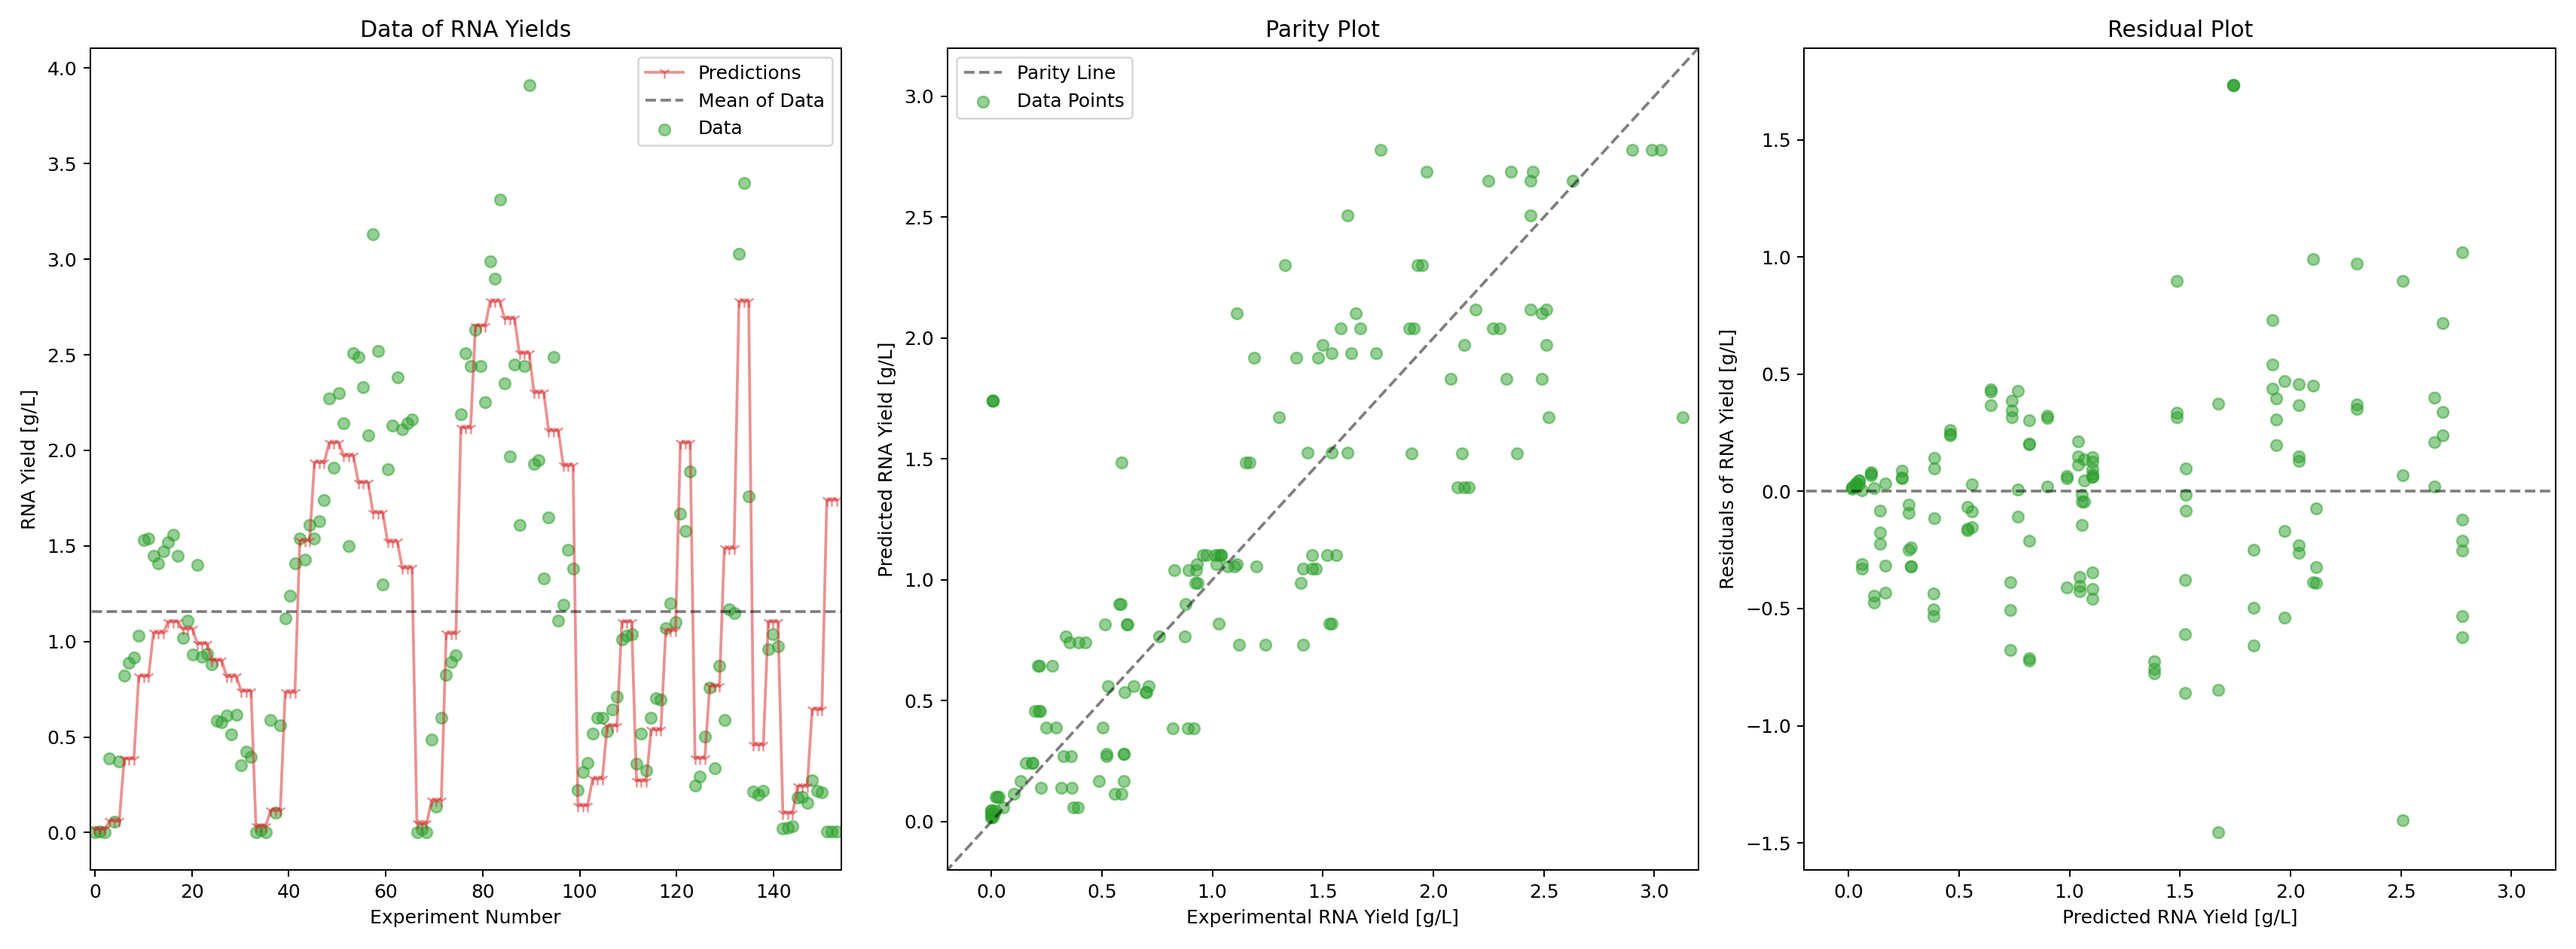
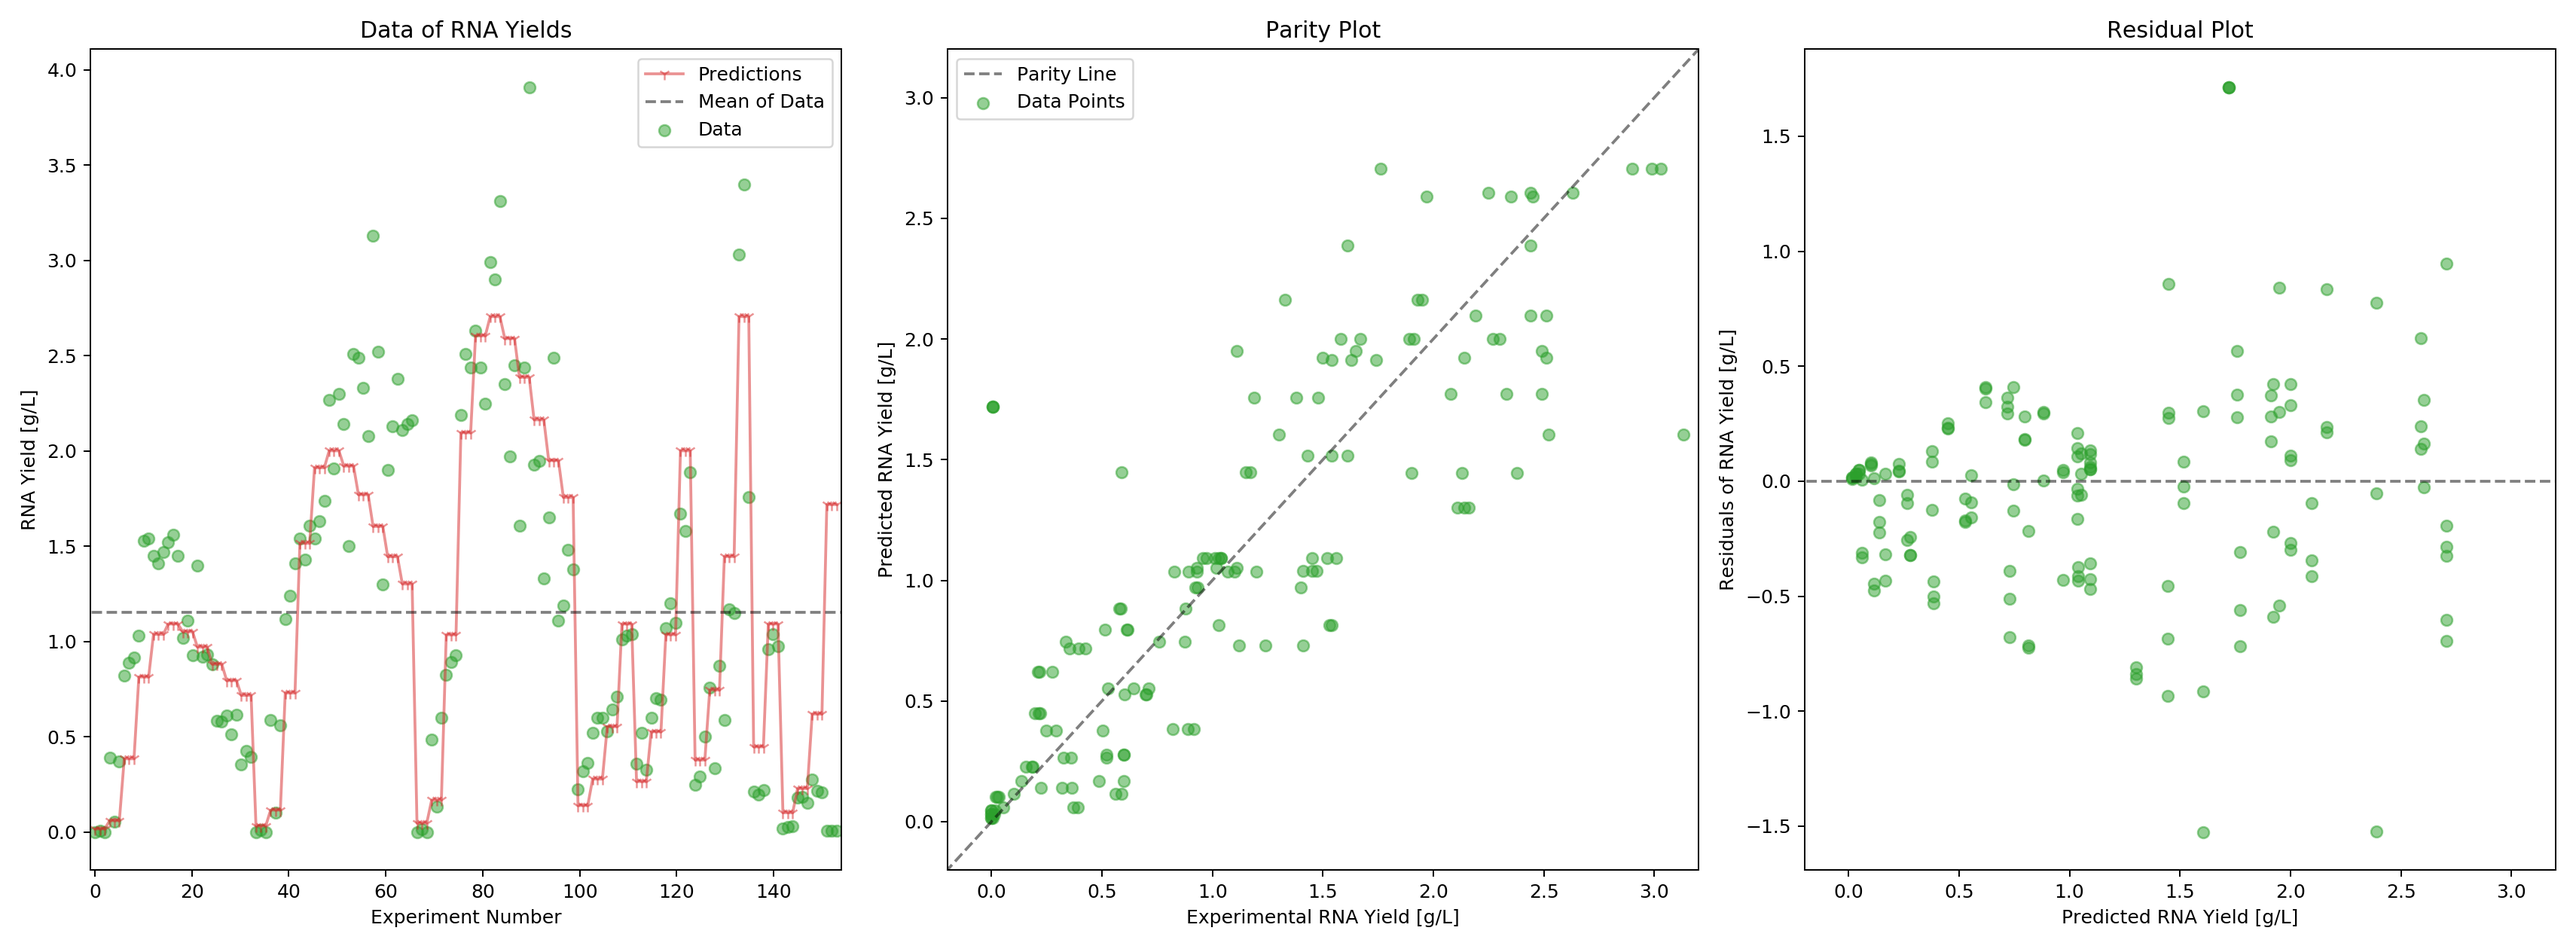
checkpoint 1 for model update with data labelled 25 Nov 2022

diff --git a/data_functions.py b/data_functions.py
@@ -26,7 +26,12 @@ def plot_experimental_data(ax, data, stdev):
 
 def get_experimental_data():
     ## Extract the data from specific columns in a certain sheet in a given Excel file as dataframe
-    data_DoE = pd.read_excel('Experimental_Data.xlsx', 'ModelData')
+    if True:
+        data_DoE = pd.read_excel('Experimental_Data.xlsx', 'ModelData')
+        n_repetitions = 3
+    else:
+        data_DoE = pd.read_excel('2022_11_25_rsm_doe_data.xlsx', 'ModelData')
+        n_repetitions = 2
     dataFrame_DoE = pd.DataFrame(data_DoE, columns = ['t [hr]', 'Mg2+ [M]', 'NTP [M]', 'Spermidine [M]',                                                   'T7RNAP ratio', 'template ratio', 'RNA [g/L]'])
     # Last column of dataframe is RNA yield, while all the other columns are 'input'
     indVar_DoE = dataFrame_DoE.values
@@ -35,17 +40,17 @@ def get_experimental_data():
 
     ## Each data sample appears three times, so take the average, st dev, 
     ## mean absolute error and mean square error of data set
-    C_RNA_new = np.zeros(int(len(C_RNA_exp2)/3))
-    X_new = np.zeros((int(len(X2)/3), len(X2[0])))
-    C_RNA_stdev = np.zeros(int(len(C_RNA_exp2)/3))
+    C_RNA_new = np.zeros(int(len(C_RNA_exp2)/n_repetitions))
+    X_new = np.zeros((int(len(X2)/n_repetitions), len(X2[0])))
+    C_RNA_stdev = np.zeros(int(len(C_RNA_exp2)/n_repetitions))
     MAE_exp = []
     MSE_exp = []
     for i in range(len(C_RNA_exp2)):
-        if i%3 == 0:
-            C_RNA_new[int(i/3)] = np.average(C_RNA_exp2[i:i+3])
-            X_new[int(i/3)] = X2[i]
-            C_RNA_stdev[int(i/3)] = np.std(C_RNA_exp2[i:i+3])
+        if i%n_repetitions == 0:
+            C_RNA_new[int(i/n_repetitions)] = np.average(C_RNA_exp2[i:i+n_repetitions])
+            X_new[int(i/n_repetitions)] = X2[i]
+            C_RNA_stdev[int(i/n_repetitions)] = np.std(C_RNA_exp2[i:i+n_repetitions])
         
-            MAE_exp.append(np.sum(abs(C_RNA_exp2[i:i+3]-np.average(C_RNA_exp2[i:i+3]))/3))
-            MSE_exp.append(np.sum((C_RNA_exp2[i:i+3]-np.average(C_RNA_exp2[i:i+3]))**2/3))
+            MAE_exp.append(np.sum(abs(C_RNA_exp2[i:i+n_repetitions]-np.average(C_RNA_exp2[i:i+n_repetitions]))/n_repetitions))
+            MSE_exp.append(np.sum((C_RNA_exp2[i:i+n_repetitions]-np.average(C_RNA_exp2[i:i+n_repetitions]))**2/n_repetitions))
     return X_new, C_RNA_new, C_RNA_stdev, MAE_exp, MSE_exp

diff --git a/anova.py b/anova.py
@@ -41,8 +41,19 @@ def cross_term(data, predictions, std_error=1):
 
 
 if __name__ == '__main__':
+    if True:
+        data_set_file = "Experimental_Data.xlsx"
+        # mp = [4.34, 5.55e+05, 1.94e+05, 1.20e+06, 0, 0, 0, 0, 0]  # taken from "3D_deterministic_DS.py"
+        mp = [2.61785814e+00, 3.34773771e+05, 1.17179087e+05, 1.20226431e+06,
+              7.53834439e-07, 5.59613926e-01, 1.00000000e-10, 1.00000000e-10,
+              1.00000000e-10]
+    else:
+        data_set_file = "2022_11_25_rsm_doe_data.xlsx"
+        mp = [2.61785814e+00, 3.34773771e+05, 1.17179087e+05, 1.20226431e+06,
+              7.53834439e-07, 5.59613926e-01, 1.00000000e-10, 1.00000000e-10,
+              1.00000000e-10]
     exp_data = pd.read_excel(
-        "Experimental_Data.xlsx",
+        data_set_file,
         sheet_name="ModelData",
         header=0,
     )
@@ -54,7 +65,6 @@ if __name__ == '__main__':
 
     X = exp_data.loc[:, "t [hr]":"T7RNAP ratio"]
     X_numpy = X.to_numpy()
-    mp = [4.34, 5.55e+05, 1.94e+05, 1.20e+06, 0, 0, 0, 0, 0]    # taken from "3D_deterministic_DS.py"
 
     predictions = datafitting_transcription_experimental(
         X_numpy,

diff --git a/odes_and_curve_fitting_functions.py b/odes_and_curve_fitting_functions.py
@@ -249,11 +249,11 @@ def datafitting_transcription_experimental(X, k_app, K1, K2, k_ac, k_ba, k_Mg, K
             print("Warning: Unstable solution for the following initial concentrations: " + str(tot_conc0))
             C_array[j] = 1e4
     # Return N-dimensional RNA yield corresponding to X    
-    # return C_array
-    full_array = np.array([
-        C_array,
-    ])
-    return full_array
+    return C_array
+    # full_array = np.array([
+    #     C_array,
+    # ])
+    # return full_array
 
 def datafitting_transcription_prob_stDev(X, stDev_per, k_app, K1, K2, k_ac, k_ba, k_Mg, K3, K4, K5):
 ## Same function as datafitting_transcription_experimental() but with the additional input of a standartd deviation

diff --git a/curve_fitting_exploration_prediction.py b/curve_fitting_exploration_prediction.py
@@ -10,6 +10,7 @@ import time
 
 import matplotlib as mpl
 import matplotlib.pyplot as plt
+from mpl_toolkits.mplot3d import Axes3D
 import pylab as pl
 
 from scipy.optimize import curve_fit
